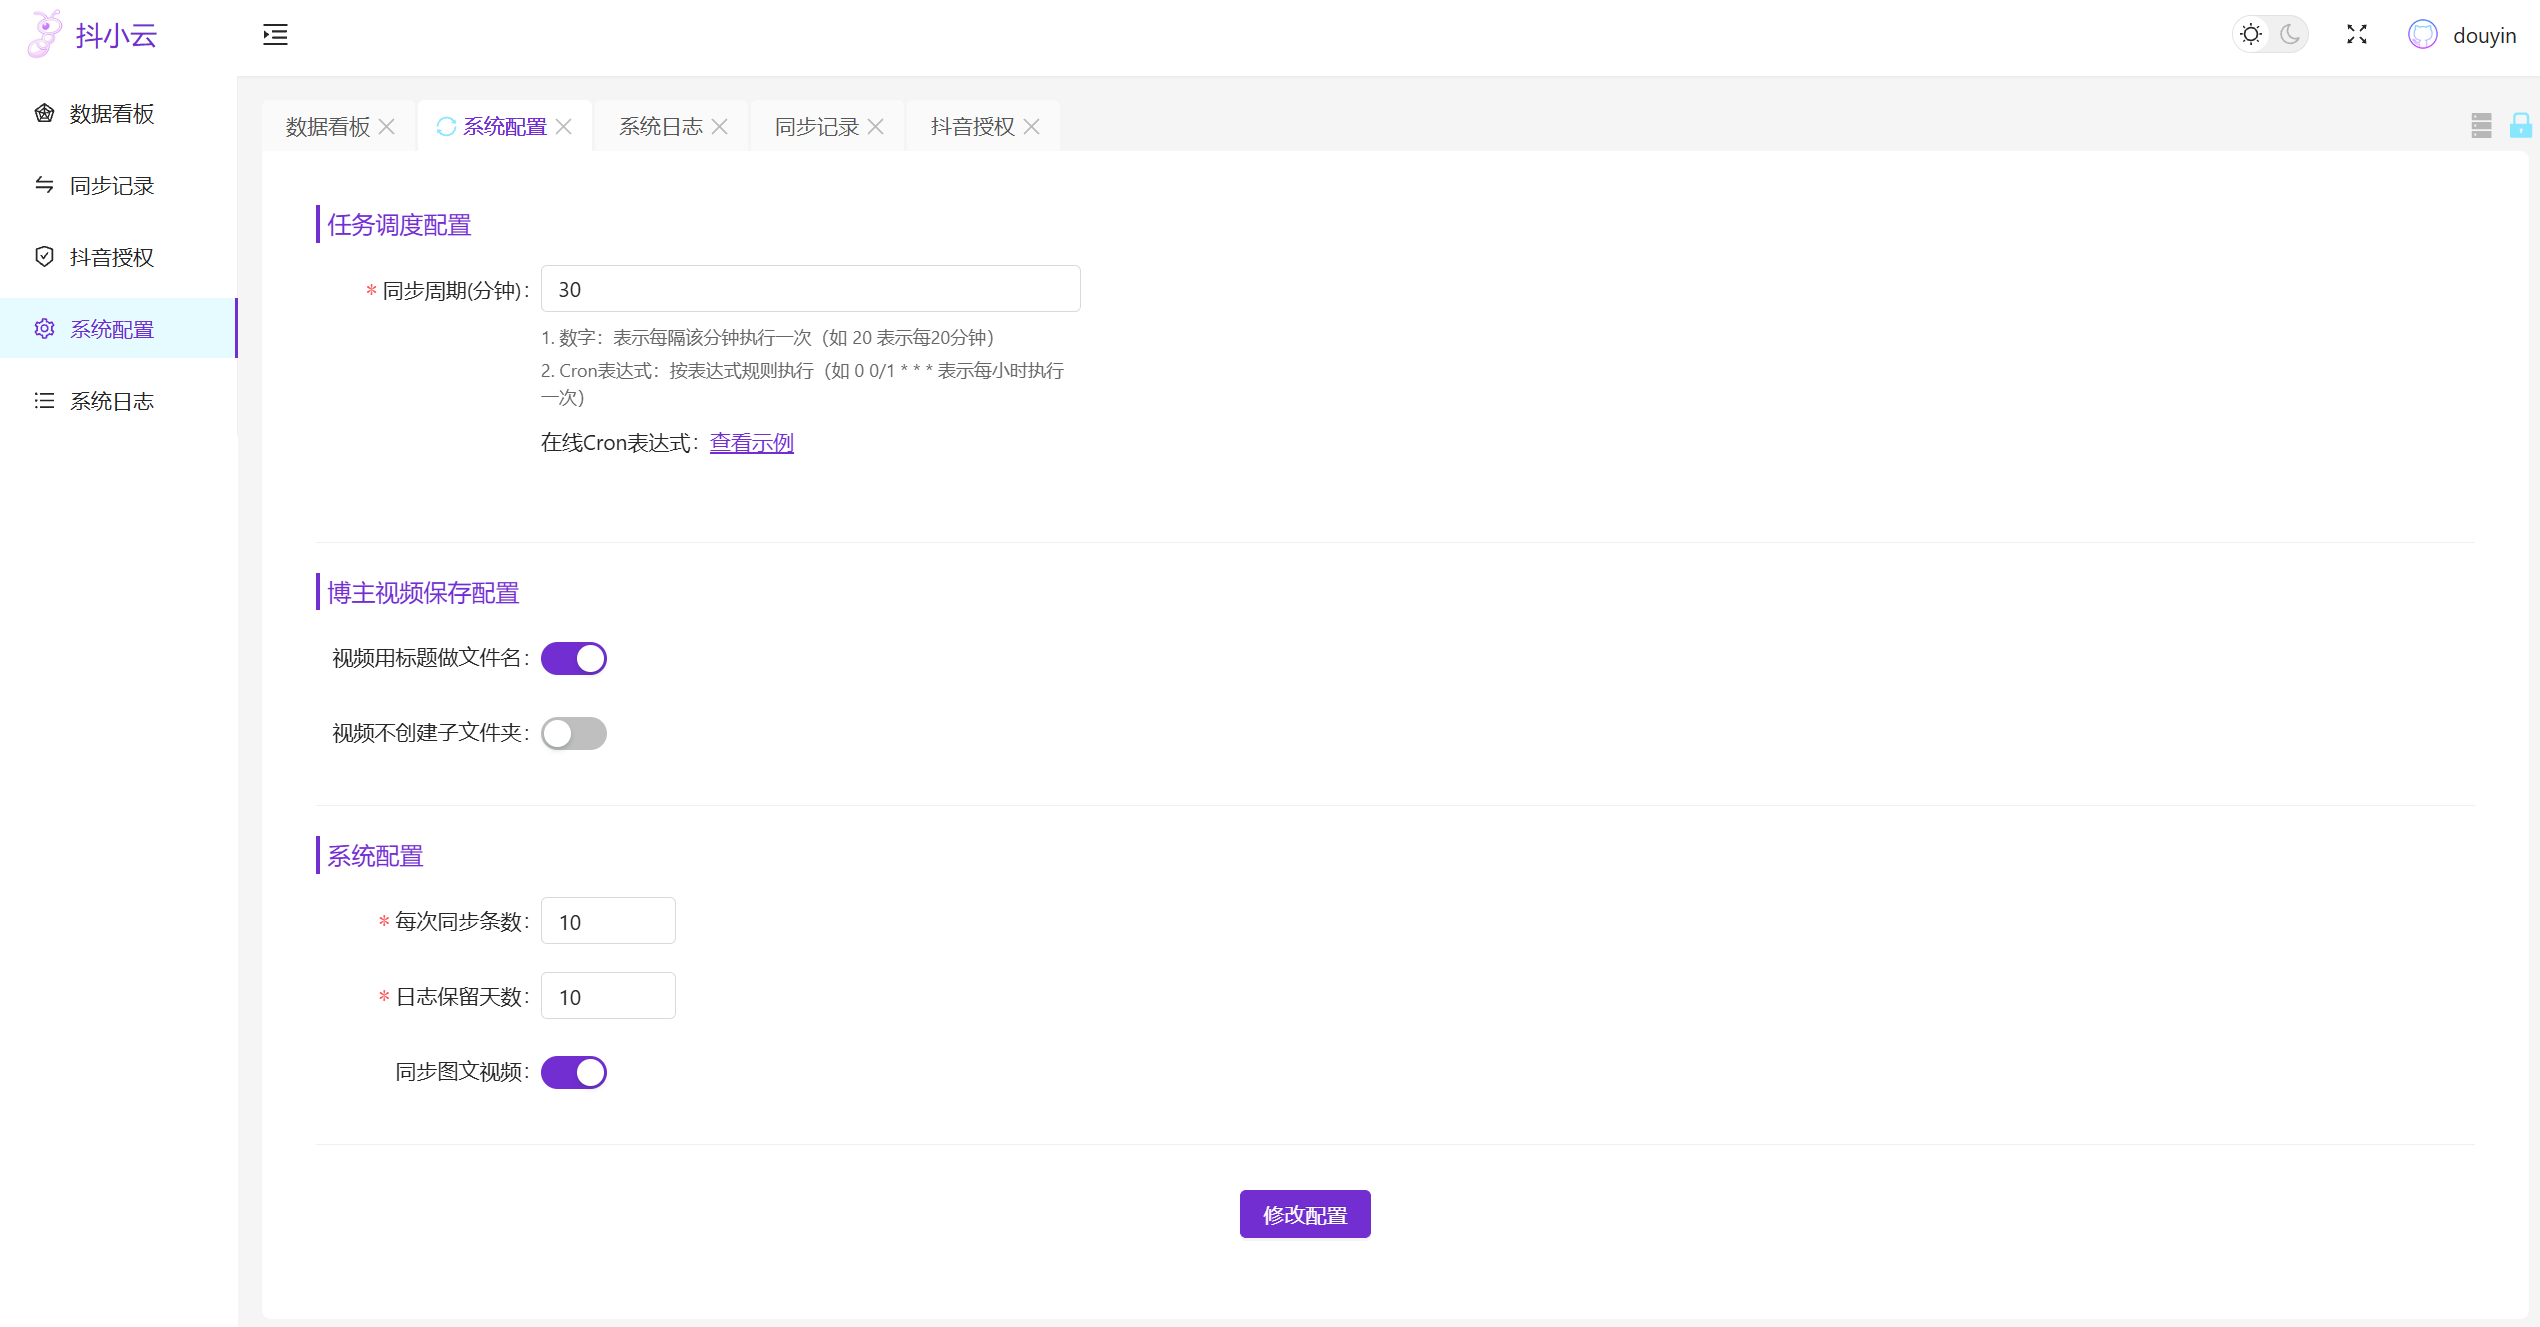
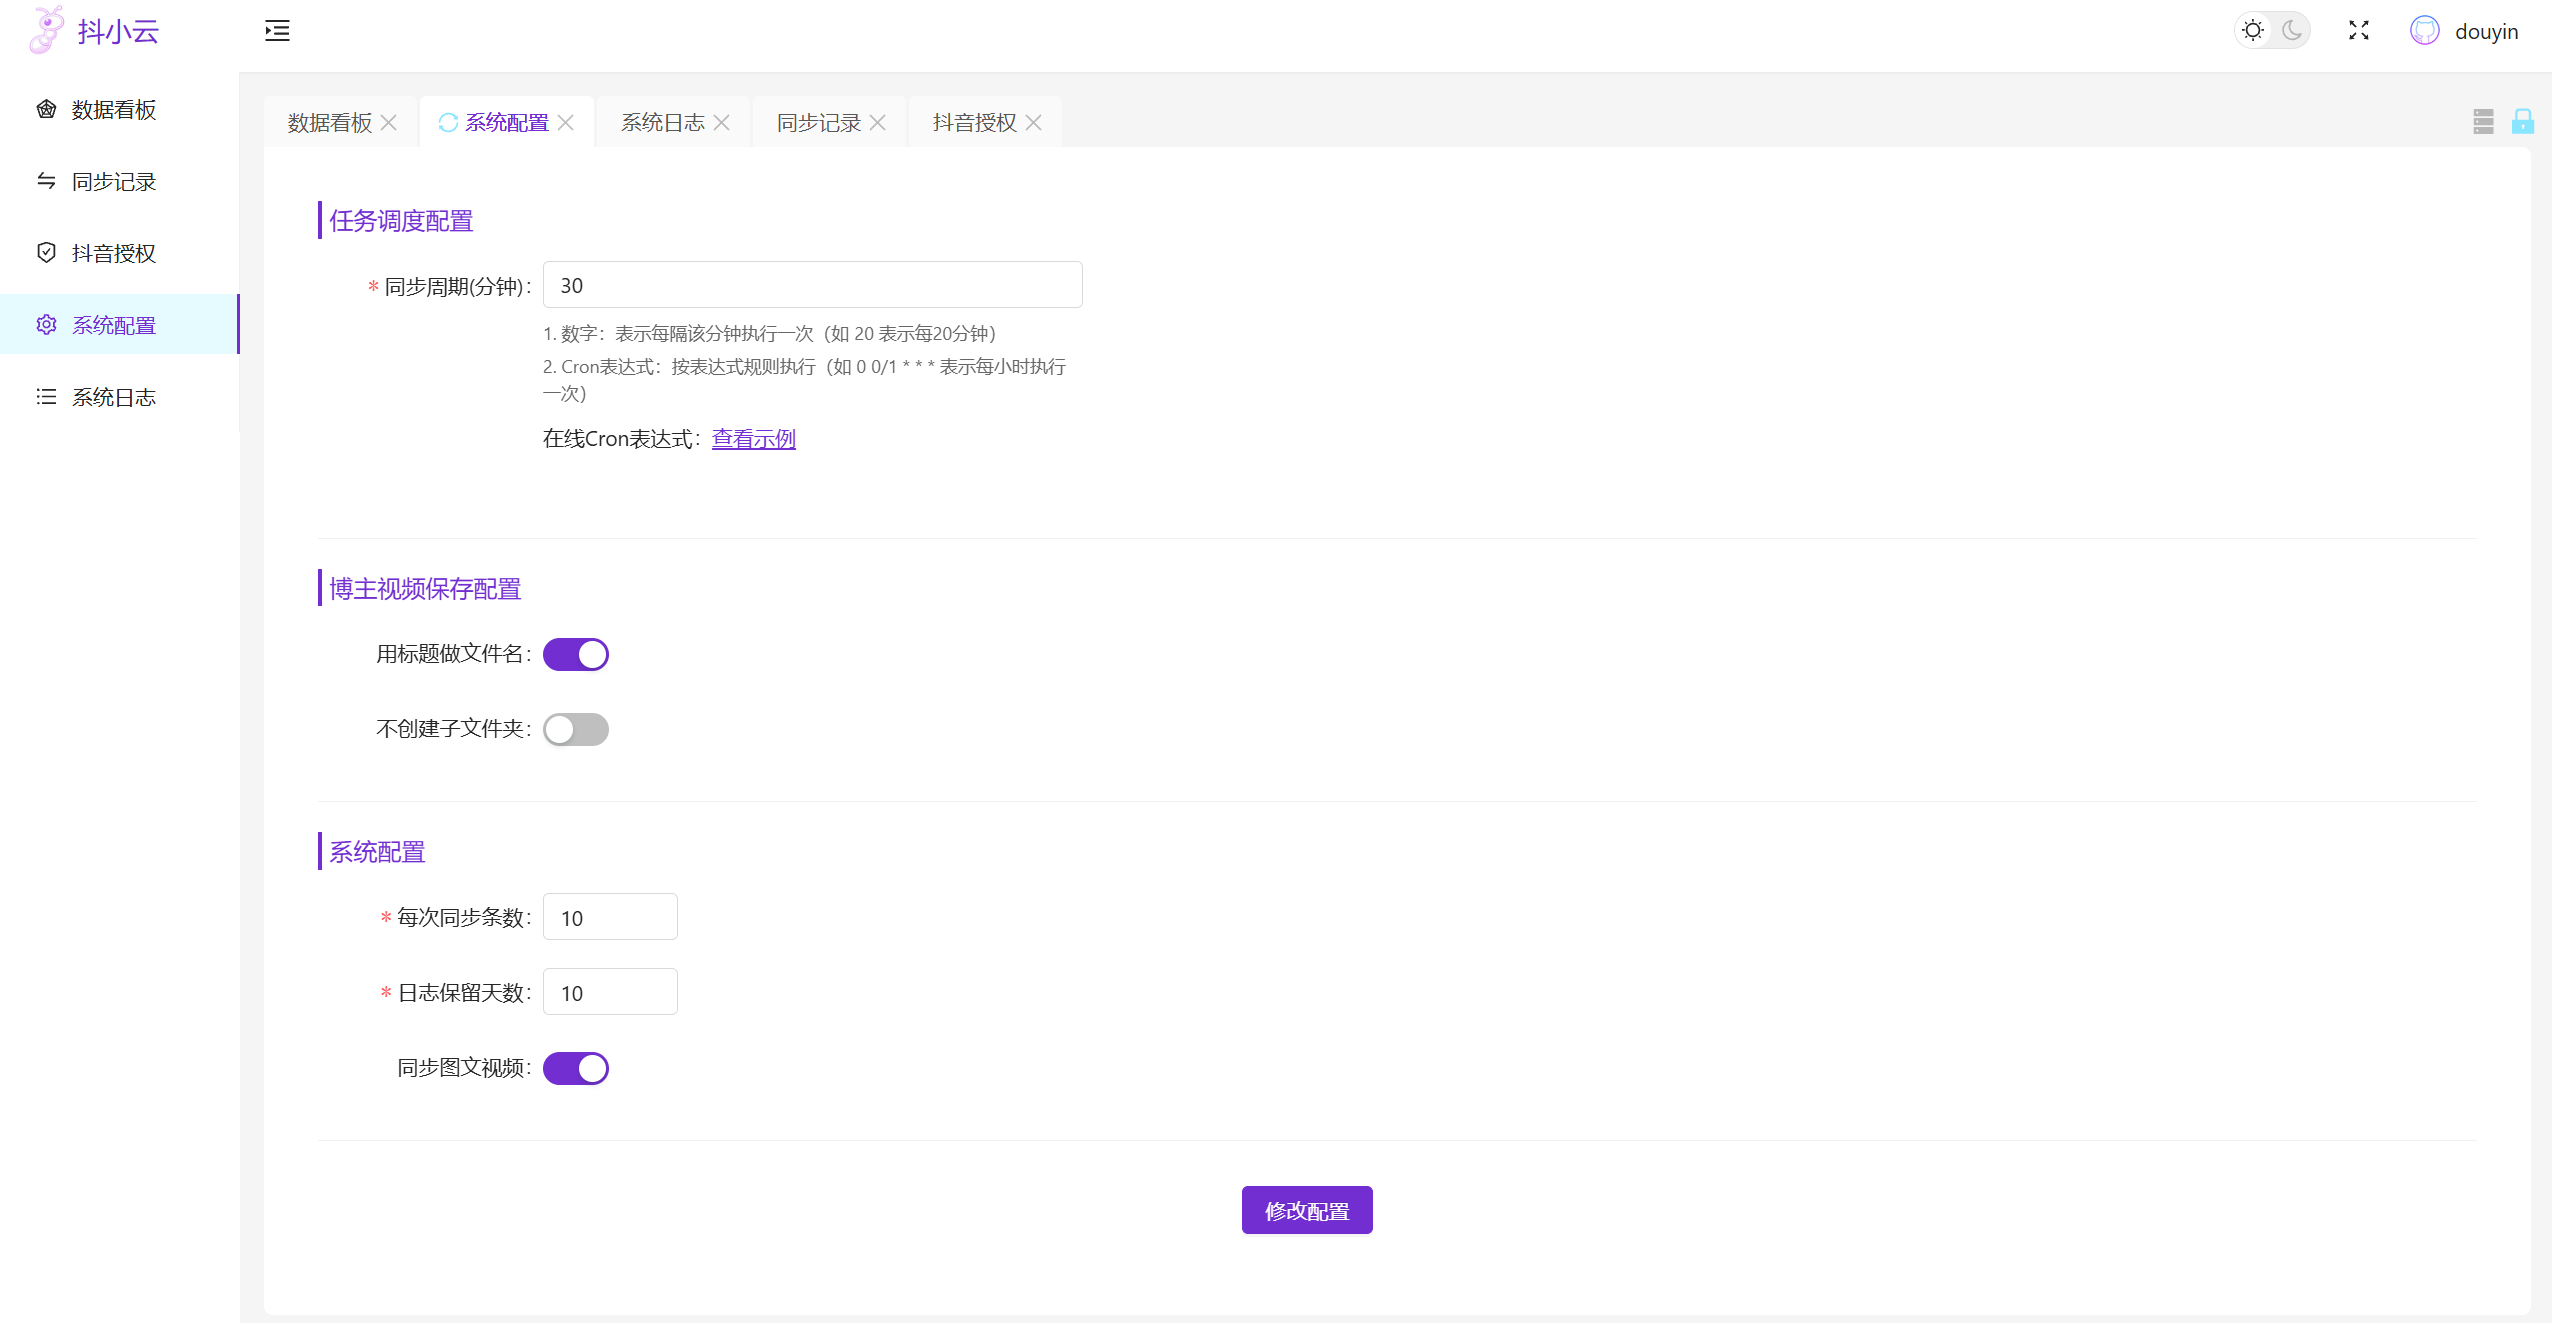
md

diff --git a/app/src/pages/set/AppSet.vue b/app/src/pages/set/AppSet.vue
@@ -22,11 +22,11 @@
       <div class="form-section">
         <h3 class="section-title">博主视频保存配置</h3>
 
-        <a-form-item has-feedback label="视频用标题做文件名" name="UperUseViedoTitle" :wrapper-col="{ span: 6 }">
+        <a-form-item has-feedback label="用标题做文件名" name="UperUseViedoTitle" :wrapper-col="{ span: 6 }">
           <a-switch v-model:checked="formState.UperUseViedoTitle" />
         </a-form-item>
 
-        <a-form-item has-feedback label="视频不创建子文件夹" name="UperSaveTogether" :wrapper-col="{ span: 6 }">
+        <a-form-item has-feedback label="不创建子文件夹" name="UperSaveTogether" :wrapper-col="{ span: 6 }">
           <a-switch v-model:checked="formState.UperSaveTogether" />
         </a-form-item>
 
